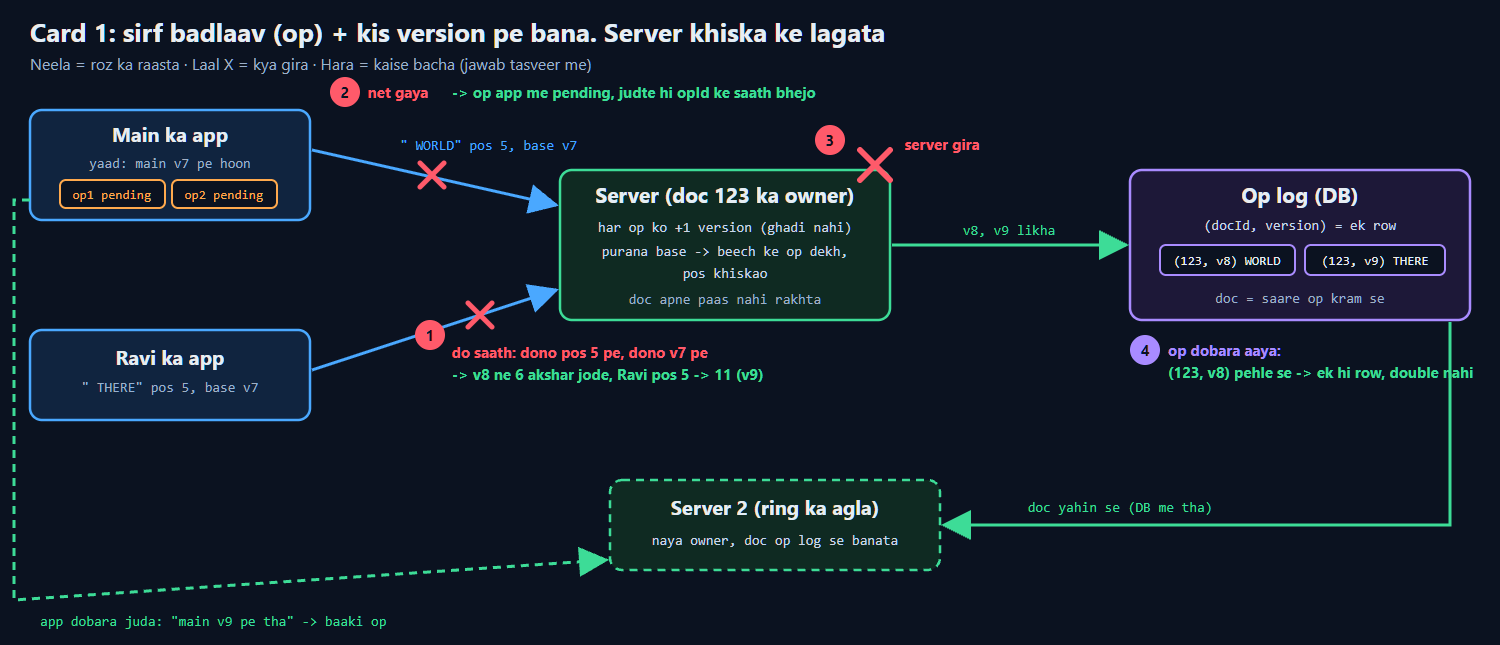
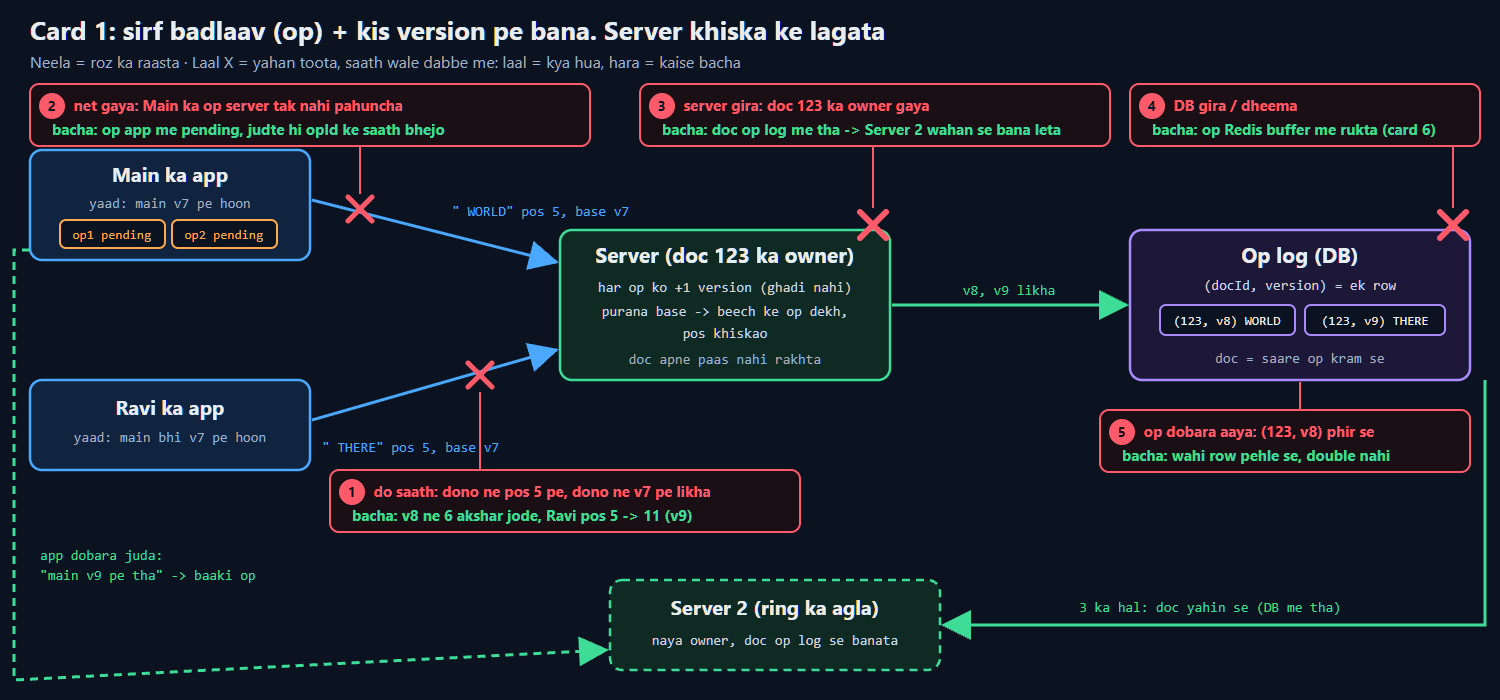
hld docs c1 poster: har X ke saath juda dabba (laal kya hua, hara kaise bacha), DB gira joda, labels X se door nahi

diff --git a/04_HLD/SYSTEM_DESIGNS/11_google_docs_collab/img/c1_poster.html b/04_HLD/SYSTEM_DESIGNS/11_google_docs_collab/img/c1_poster.html
@@ -1,90 +1,107 @@
 <!doctype html>
 <meta charset="utf-8">
-<title>Card 1 poster v3</title>
+<title>Card 1 poster</title>
 <style>
 body{margin:0;background:#0b1220}
 svg text{font-family:"Segoe UI",Arial,sans-serif}
 .m{font-family:Consolas,monospace}
 </style>
-<svg width="1500" height="645" viewBox="0 0 1500 645" xmlns="http://www.w3.org/2000/svg">
+<svg width="1500" height="700" viewBox="0 0 1500 700" xmlns="http://www.w3.org/2000/svg">
 <defs>
   <marker id="ab" markerWidth="10" markerHeight="10" refX="9" refY="5" orient="auto"><path d="M0,0 L10,5 L0,10 Z" fill="#4aa8ff"/></marker>
   <marker id="ag" markerWidth="10" markerHeight="10" refX="9" refY="5" orient="auto"><path d="M0,0 L10,5 L0,10 Z" fill="#3ddc97"/></marker>
-  <marker id="ao" markerWidth="10" markerHeight="10" refX="9" refY="5" orient="auto"><path d="M0,0 L10,5 L0,10 Z" fill="#ffa94d"/></marker>
 </defs>
-<rect width="1500" height="645" fill="#0b1220"/>
+<rect width="1500" height="700" fill="#0b1220"/>
 
-<!-- title -->
-<text x="30" y="42" font-size="26" font-weight="700" fill="#e6edf3">Card 1: sirf badlaav (op) + kis version pe bana. Server khiska ke lagata</text>
-<text x="30" y="70" font-size="16" fill="#9fb0c8">Neela = roz ka raasta · Laal X = kya gira · Hara = kaise bacha (jawab tasveer me)</text>
+<text x="30" y="40" font-size="26" font-weight="700" fill="#e6edf3">Card 1: sirf badlaav (op) + kis version pe bana. Server khiska ke lagata</text>
+<text x="30" y="68" font-size="16" fill="#9fb0c8">Neela = roz ka raasta · Laal X = yahan toota, saath wale dabbe me: laal = kya hua, hara = kaise bacha</text>
 
 <!-- Main app -->
-<rect x="30" y="110" width="280" height="110" rx="12" fill="#10243f" stroke="#4aa8ff" stroke-width="2.5"/>
-<text x="170" y="142" font-size="20" font-weight="700" fill="#e6edf3" text-anchor="middle">Main ka app</text>
-<text x="170" y="168" font-size="14" fill="#9fb0c8" text-anchor="middle" class="m">yaad: main v7 pe hoon</text>
-<rect x="60" y="180" width="105" height="28" rx="6" fill="#0b1220" stroke="#ffa94d" stroke-width="2"/>
-<text x="112" y="199" font-size="13" fill="#ffa94d" text-anchor="middle" class="m">op1 pending</text>
-<rect x="172" y="180" width="105" height="28" rx="6" fill="#0b1220" stroke="#ffa94d" stroke-width="2"/>
-<text x="224" y="199" font-size="13" fill="#ffa94d" text-anchor="middle" class="m">op2 pending</text>
+<rect x="30" y="150" width="280" height="110" rx="12" fill="#10243f" stroke="#4aa8ff" stroke-width="2.5"/>
+<text x="170" y="182" font-size="20" font-weight="700" fill="#e6edf3" text-anchor="middle">Main ka app</text>
+<text x="170" y="208" font-size="14" fill="#9fb0c8" text-anchor="middle" class="m">yaad: main v7 pe hoon</text>
+<rect x="60" y="220" width="105" height="28" rx="6" fill="#0b1220" stroke="#ffa94d" stroke-width="2"/>
+<text x="112" y="239" font-size="13" fill="#ffa94d" text-anchor="middle" class="m">op1 pending</text>
+<rect x="172" y="220" width="105" height="28" rx="6" fill="#0b1220" stroke="#ffa94d" stroke-width="2"/>
+<text x="224" y="239" font-size="13" fill="#ffa94d" text-anchor="middle" class="m">op2 pending</text>
 
 <!-- Ravi app -->
-<rect x="30" y="330" width="280" height="90" rx="12" fill="#10243f" stroke="#4aa8ff" stroke-width="2.5"/>
-<text x="170" y="365" font-size="20" font-weight="700" fill="#e6edf3" text-anchor="middle">Ravi ka app</text>
-<text x="170" y="392" font-size="14" fill="#9fb0c8" text-anchor="middle" class="m">" THERE" pos 5, base v7</text>
+<rect x="30" y="380" width="280" height="90" rx="12" fill="#10243f" stroke="#4aa8ff" stroke-width="2.5"/>
+<text x="170" y="415" font-size="20" font-weight="700" fill="#e6edf3" text-anchor="middle">Ravi ka app</text>
+<text x="170" y="442" font-size="14" fill="#9fb0c8" text-anchor="middle" class="m">yaad: main bhi v7 pe hoon</text>
 
 <!-- Server -->
-<rect x="560" y="170" width="330" height="150" rx="12" fill="#0f2a22" stroke="#3ddc97" stroke-width="2.5"/>
-<text x="725" y="203" font-size="21" font-weight="700" fill="#e6edf3" text-anchor="middle">Server (doc 123 ka owner)</text>
-<text x="725" y="232" font-size="14" fill="#c9d6e8" text-anchor="middle" class="m">har op ko +1 version (ghadi nahi)</text>
-<text x="725" y="256" font-size="14" fill="#c9d6e8" text-anchor="middle" class="m">purana base -&gt; beech ke op dekh,</text>
-<text x="725" y="278" font-size="14" fill="#c9d6e8" text-anchor="middle" class="m">pos khiskao</text>
-<text x="725" y="304" font-size="14" fill="#9fb0c8" text-anchor="middle" class="m">doc apne paas nahi rakhta</text>
+<rect x="560" y="230" width="330" height="150" rx="12" fill="#0f2a22" stroke="#3ddc97" stroke-width="2.5"/>
+<text x="725" y="263" font-size="21" font-weight="700" fill="#e6edf3" text-anchor="middle">Server (doc 123 ka owner)</text>
+<text x="725" y="292" font-size="14" fill="#c9d6e8" text-anchor="middle" class="m">har op ko +1 version (ghadi nahi)</text>
+<text x="725" y="316" font-size="14" fill="#c9d6e8" text-anchor="middle" class="m">purana base -&gt; beech ke op dekh,</text>
+<text x="725" y="338" font-size="14" fill="#c9d6e8" text-anchor="middle" class="m">pos khiskao</text>
+<text x="725" y="364" font-size="14" fill="#9fb0c8" text-anchor="middle" class="m">doc apne paas nahi rakhta</text>
 
 <!-- Op log -->
-<rect x="1130" y="170" width="340" height="150" rx="12" fill="#1d1838" stroke="#a98bff" stroke-width="2.5"/>
-<text x="1300" y="203" font-size="21" font-weight="700" fill="#e6edf3" text-anchor="middle">Op log (DB)</text>
-<text x="1300" y="230" font-size="14" fill="#c9d6e8" text-anchor="middle" class="m">(docId, version) = ek row</text>
-<rect x="1160" y="245" width="135" height="30" rx="6" fill="#0b1220" stroke="#a98bff" stroke-width="2"/>
-<text x="1227" y="265" font-size="13" fill="#e6edf3" text-anchor="middle" class="m">(123, v8) WORLD</text>
-<rect x="1305" y="245" width="140" height="30" rx="6" fill="#0b1220" stroke="#a98bff" stroke-width="2"/>
-<text x="1375" y="265" font-size="13" fill="#e6edf3" text-anchor="middle" class="m">(123, v9) THERE</text>
-<text x="1300" y="303" font-size="14" fill="#9fb0c8" text-anchor="middle" class="m">doc = saare op kram se</text>
+<rect x="1130" y="230" width="340" height="150" rx="12" fill="#1d1838" stroke="#a98bff" stroke-width="2.5"/>
+<text x="1300" y="263" font-size="21" font-weight="700" fill="#e6edf3" text-anchor="middle">Op log (DB)</text>
+<text x="1300" y="290" font-size="14" fill="#c9d6e8" text-anchor="middle" class="m">(docId, version) = ek row</text>
+<rect x="1160" y="305" width="135" height="30" rx="6" fill="#0b1220" stroke="#a98bff" stroke-width="2"/>
+<text x="1227" y="325" font-size="13" fill="#e6edf3" text-anchor="middle" class="m">(123, v8) WORLD</text>
+<rect x="1305" y="305" width="140" height="30" rx="6" fill="#0b1220" stroke="#a98bff" stroke-width="2"/>
+<text x="1375" y="325" font-size="13" fill="#e6edf3" text-anchor="middle" class="m">(123, v9) THERE</text>
+<text x="1300" y="363" font-size="14" fill="#9fb0c8" text-anchor="middle" class="m">doc = saare op kram se</text>
 
-<!-- normal path -->
-<line x1="312" y1="150" x2="556" y2="205" stroke="#4aa8ff" stroke-width="3" marker-end="url(#ab)"/>
-<text x="400" y="150" font-size="14" fill="#4aa8ff" class="m">" WORLD" pos 5, base v7</text>
-<line x1="312" y1="370" x2="556" y2="290" stroke="#4aa8ff" stroke-width="3" marker-end="url(#ab)"/>
-<line x1="892" y1="245" x2="1126" y2="245" stroke="#3ddc97" stroke-width="3" marker-end="url(#ag)"/>
-<text x="1009" y="235" font-size="14" fill="#3ddc97" text-anchor="middle" class="m">v8, v9 likha</text>
+<!-- roz ka raasta -->
+<line x1="312" y1="200" x2="556" y2="262" stroke="#4aa8ff" stroke-width="3" marker-end="url(#ab)"/>
+<text x="452" y="216" font-size="14" fill="#4aa8ff" class="m">" WORLD" pos 5, base v7</text>
+<line x1="312" y1="420" x2="556" y2="350" stroke="#4aa8ff" stroke-width="3" marker-end="url(#ab)"/>
+<text x="322" y="452" font-size="14" fill="#4aa8ff" class="m">" THERE" pos 5, base v7</text>
+<line x1="892" y1="305" x2="1126" y2="305" stroke="#3ddc97" stroke-width="3" marker-end="url(#ag)"/>
+<text x="1009" y="295" font-size="14" fill="#3ddc97" text-anchor="middle" class="m">v8, v9 likha</text>
 
-<!-- do saath: Ravi pos khiska -->
-<g stroke="#ff5a6a" stroke-width="5" stroke-linecap="round"><line x1="468" y1="303" x2="492" y2="327"/><line x1="492" y1="303" x2="468" y2="327"/></g>
-<circle cx="430" cy="335" r="15" fill="#ff5a6a"/><text x="430" y="341" font-size="15" font-weight="700" fill="#0b1220" text-anchor="middle">1</text>
-<text x="452" y="358" font-size="15" font-weight="700" fill="#ff5a6a">do saath: dono pos 5 pe, dono v7 pe</text>
-<text x="452" y="380" font-size="15" font-weight="700" fill="#3ddc97">-&gt; v8 ne 6 akshar jode, Ravi pos 5 -&gt; 11 (v9)</text>
+<!-- 1: do saath (Ravi ke teer pe) -->
+<g stroke="#ff5a6a" stroke-width="5" stroke-linecap="round"><line x1="468" y1="363" x2="492" y2="387"/><line x1="492" y1="363" x2="468" y2="387"/></g>
+<line x1="480" y1="392" x2="480" y2="470" stroke="#ff5a6a" stroke-width="2"/>
+<rect x="330" y="470" width="470" height="62" rx="9" fill="#1a0f14" stroke="#ff5a6a" stroke-width="2"/>
+<circle cx="352" cy="492" r="13" fill="#ff5a6a"/><text x="352" y="497" font-size="14" font-weight="700" fill="#0b1220" text-anchor="middle">1</text>
+<text x="374" y="497" font-size="15" font-weight="700" fill="#ff5a6a">do saath: dono ne pos 5 pe, dono ne v7 pe likha</text>
+<text x="352" y="521" font-size="15" font-weight="700" fill="#3ddc97">bacha: v8 ne 6 akshar jode, Ravi pos 5 -&gt; 11 (v9)</text>
 
-<!-- net gaya on Main -> Server -->
-<g stroke="#ff5a6a" stroke-width="5" stroke-linecap="round"><line x1="420" y1="163" x2="444" y2="187"/><line x1="444" y1="163" x2="420" y2="187"/></g>
-<circle cx="345" cy="92" r="15" fill="#ff5a6a"/><text x="345" y="98" font-size="15" font-weight="700" fill="#0b1220" text-anchor="middle">2</text>
-<text x="368" y="98" font-size="15" font-weight="700" fill="#ff5a6a">net gaya</text>
-<text x="452" y="98" font-size="15" font-weight="700" fill="#3ddc97">-&gt; op app me pending, judte hi opId ke saath bhejo</text>
+<!-- 2: net gaya (Main ke teer pe) -->
+<g stroke="#ff5a6a" stroke-width="5" stroke-linecap="round"><line x1="348" y1="197" x2="372" y2="221"/><line x1="372" y1="197" x2="348" y2="221"/></g>
+<line x1="360" y1="194" x2="360" y2="146" stroke="#ff5a6a" stroke-width="2"/>
+<rect x="30" y="84" width="560" height="62" rx="9" fill="#1a0f14" stroke="#ff5a6a" stroke-width="2"/>
+<circle cx="52" cy="106" r="13" fill="#ff5a6a"/><text x="52" y="111" font-size="14" font-weight="700" fill="#0b1220" text-anchor="middle">2</text>
+<text x="74" y="111" font-size="15" font-weight="700" fill="#ff5a6a">net gaya: Main ka op server tak nahi pahuncha</text>
+<text x="52" y="135" font-size="15" font-weight="700" fill="#3ddc97">bacha: op app me pending, judte hi opId ke saath bhejo</text>
 
-<!-- server gira -->
-<g stroke="#ff5a6a" stroke-width="6" stroke-linecap="round"><line x1="860" y1="150" x2="890" y2="180"/><line x1="890" y1="150" x2="860" y2="180"/></g>
-<circle cx="830" cy="140" r="15" fill="#ff5a6a"/><text x="830" y="146" font-size="15" font-weight="700" fill="#0b1220" text-anchor="middle">3</text>
-<text x="905" y="150" font-size="15" font-weight="700" fill="#ff5a6a">server gira</text>
+<!-- 3: server gira -->
+<g stroke="#ff5a6a" stroke-width="6" stroke-linecap="round"><line x1="860" y1="212" x2="886" y2="238"/><line x1="886" y1="212" x2="860" y2="238"/></g>
+<line x1="873" y1="208" x2="873" y2="146" stroke="#ff5a6a" stroke-width="2"/>
+<rect x="640" y="84" width="470" height="62" rx="9" fill="#1a0f14" stroke="#ff5a6a" stroke-width="2"/>
+<circle cx="662" cy="106" r="13" fill="#ff5a6a"/><text x="662" y="111" font-size="14" font-weight="700" fill="#0b1220" text-anchor="middle">3</text>
+<text x="684" y="111" font-size="15" font-weight="700" fill="#ff5a6a">server gira: doc 123 ka owner gaya</text>
+<text x="662" y="135" font-size="15" font-weight="700" fill="#3ddc97">bacha: doc op log me tha -&gt; Server 2 wahan se bana leta</text>
 
-<rect x="610" y="480" width="330" height="90" rx="12" fill="#0f2a22" stroke="#3ddc97" stroke-width="2.5" stroke-dasharray="8 6"/>
-<text x="775" y="515" font-size="20" font-weight="700" fill="#e6edf3" text-anchor="middle">Server 2 (ring ka agla)</text>
-<text x="775" y="545" font-size="14" fill="#c9d6e8" text-anchor="middle" class="m">naya owner, doc op log se banata</text>
-<path d="M1450 322 L1450 525 L944 525" fill="none" stroke="#3ddc97" stroke-width="3" marker-end="url(#ag)"/>
-<text x="1120" y="512" font-size="14" fill="#3ddc97" text-anchor="middle" class="m">doc yahin se (DB me tha)</text>
-<path d="M30 200 L14 200 L14 600 L606 560" fill="none" stroke="#3ddc97" stroke-width="3" stroke-dasharray="8 6" marker-end="url(#ag)"/>
-<text x="40" y="626" font-size="14" fill="#3ddc97" class="m">app dobara juda: "main v9 pe tha" -&gt; baaki op</text>
+<!-- 4: DB gira -->
+<g stroke="#ff5a6a" stroke-width="6" stroke-linecap="round"><line x1="1440" y1="212" x2="1466" y2="238"/><line x1="1466" y1="212" x2="1440" y2="238"/></g>
+<line x1="1453" y1="208" x2="1453" y2="146" stroke="#ff5a6a" stroke-width="2"/>
+<rect x="1130" y="84" width="350" height="62" rx="9" fill="#1a0f14" stroke="#ff5a6a" stroke-width="2"/>
+<circle cx="1152" cy="106" r="13" fill="#ff5a6a"/><text x="1152" y="111" font-size="14" font-weight="700" fill="#0b1220" text-anchor="middle">4</text>
+<text x="1174" y="111" font-size="15" font-weight="700" fill="#ff5a6a">DB gira / dheema</text>
+<text x="1152" y="135" font-size="15" font-weight="700" fill="#3ddc97">bacha: op Redis buffer me rukta (card 6)</text>
 
-<!-- dobara aaya at op log -->
-<circle cx="1145" cy="350" r="15" fill="#a98bff"/><text x="1145" y="356" font-size="15" font-weight="700" fill="#0b1220" text-anchor="middle">4</text>
-<text x="1168" y="356" font-size="15" font-weight="700" fill="#a98bff">op dobara aaya:</text>
-<text x="1168" y="378" font-size="15" font-weight="700" fill="#3ddc97">(123, v8) pehle se -&gt; ek hi row, double nahi</text>
+<!-- 5: op dobara aaya -->
+<line x1="1300" y1="382" x2="1300" y2="410" stroke="#ff5a6a" stroke-width="2"/>
+<rect x="1100" y="410" width="370" height="62" rx="9" fill="#1a0f14" stroke="#ff5a6a" stroke-width="2"/>
+<circle cx="1122" cy="432" r="13" fill="#ff5a6a"/><text x="1122" y="437" font-size="14" font-weight="700" fill="#0b1220" text-anchor="middle">5</text>
+<text x="1144" y="437" font-size="15" font-weight="700" fill="#ff5a6a">op dobara aaya: (123, v8) phir se</text>
+<text x="1122" y="461" font-size="15" font-weight="700" fill="#3ddc97">bacha: wahi row pehle se, double nahi</text>
 
+<!-- Server 2 (3 ka hal) -->
+<rect x="610" y="580" width="330" height="90" rx="12" fill="#0f2a22" stroke="#3ddc97" stroke-width="2.5" stroke-dasharray="8 6"/>
+<text x="775" y="615" font-size="20" font-weight="700" fill="#e6edf3" text-anchor="middle">Server 2 (ring ka agla)</text>
+<text x="775" y="645" font-size="14" fill="#c9d6e8" text-anchor="middle" class="m">naya owner, doc op log se banata</text>
+<path d="M1485 380 L1485 625 L944 625" fill="none" stroke="#3ddc97" stroke-width="3" marker-end="url(#ag)"/>
+<text x="1210" y="612" font-size="14" fill="#3ddc97" text-anchor="middle" class="m">3 ka hal: doc yahin se (DB me tha)</text>
+<path d="M30 250 L14 250 L14 680 L606 650" fill="none" stroke="#3ddc97" stroke-width="3" stroke-dasharray="8 6" marker-end="url(#ag)"/>
+<text x="40" y="560" font-size="14" fill="#3ddc97" class="m">app dobara juda:</text>
+<text x="40" y="580" font-size="14" fill="#3ddc97" class="m">"main v9 pe tha" -&gt; baaki op</text>
 </svg>

diff --git a/04_HLD/SYSTEM_DESIGNS/11_google_docs_collab/11_google_docs_collab.md b/04_HLD/SYSTEM_DESIGNS/11_google_docs_collab/11_google_docs_collab.md
@@ -60,7 +60,7 @@ PEHLE   sabse simple tha: poora text DB me rakho, aur Save pe poora text upar li
 
 Jod: Jira / Confluence comment me bhi version; wahan purana = save MANA, Docs khiska ke lagata
 
-<img src="img/c1_poster.png?v=1" width="1000" alt="card 1: andar + kya gira, kaise bacha">
+<img src="img/c1_poster.png?v=2" width="1000" alt="card 1: andar + kya gira, kaise bacha">
 
 <details><summary>kahani dekho (3 scene)</summary>
 
